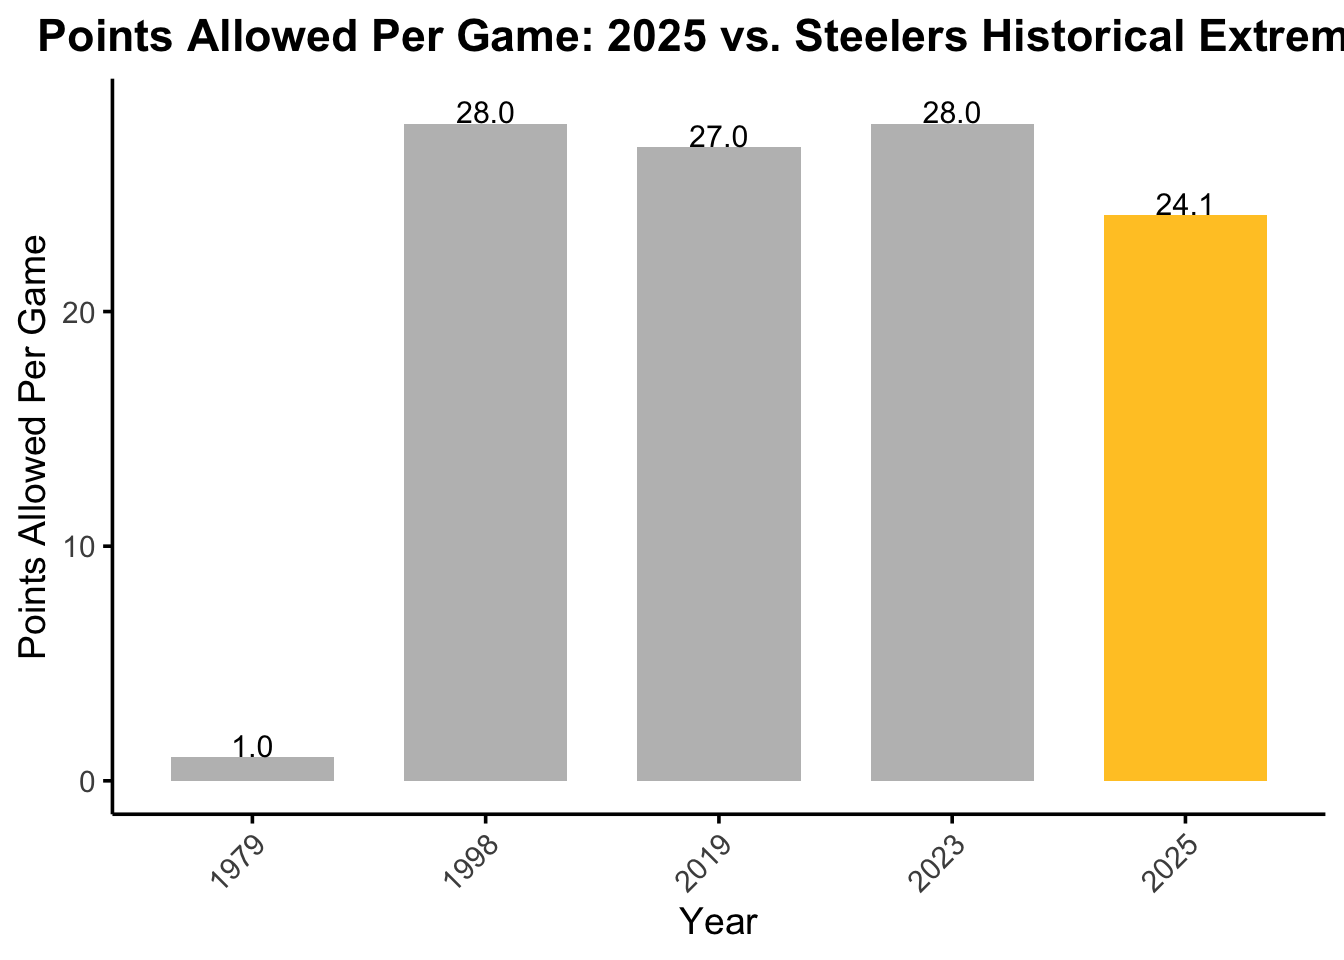
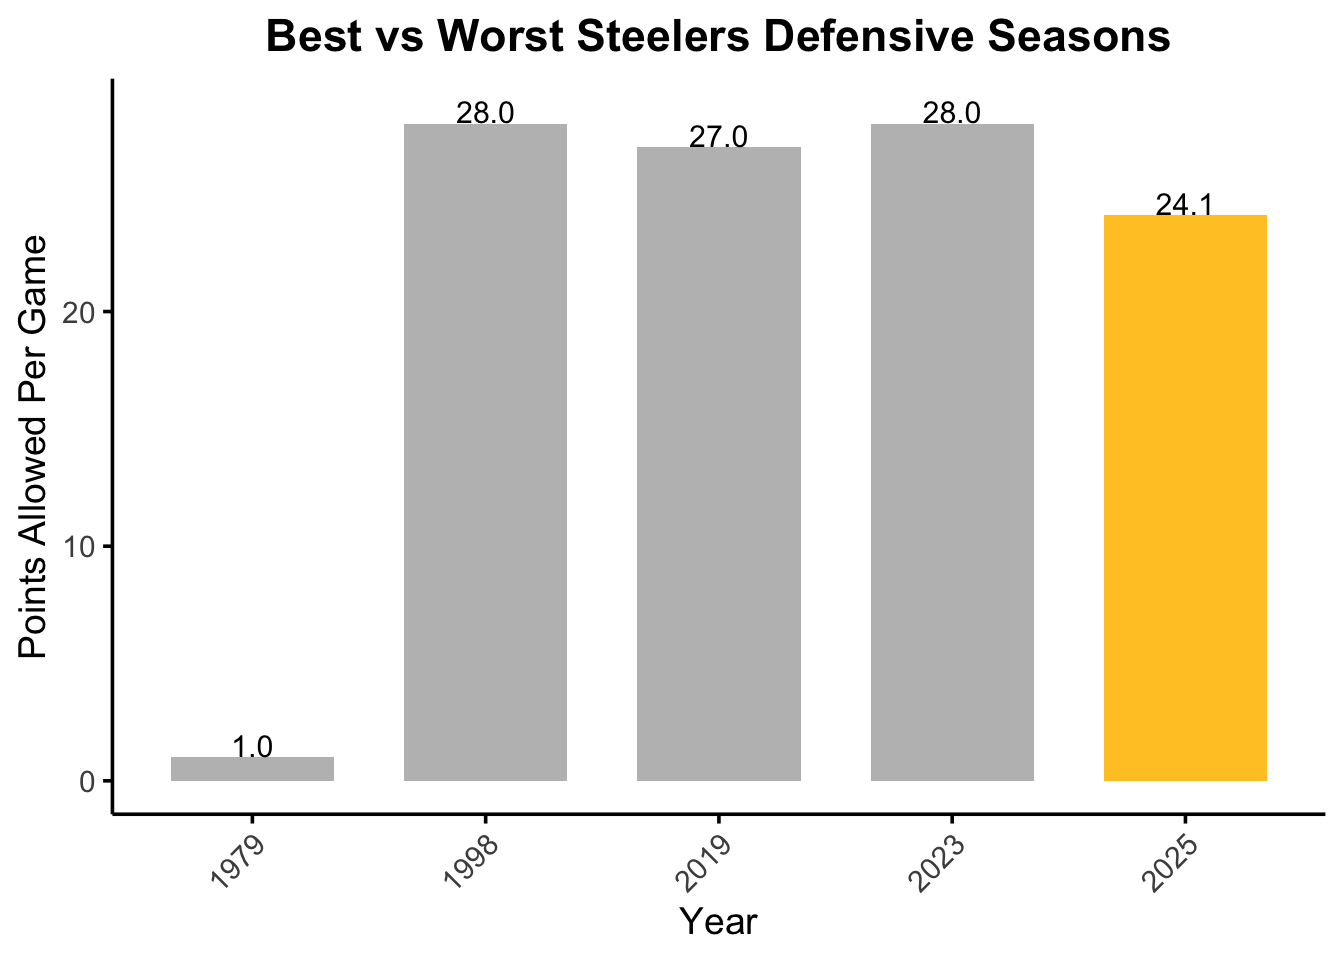
final fixes

Changed region(s): [[0.0312, 0.0, 1.0, 0.0625]]

diff --git a/posts/Steelers-defense/index.html b/posts/Steelers-defense/index.html
@@ -195,7 +195,14 @@ pre > code.sourceCode > span > a:first-child::before { text-decoration: underlin
 
 
 
-<p>This is a story about how the 2025 Steelers are having an all-time</p>
+<p>Steelers Defense at an All-Time Low? A Deep Dive Through Five Decades of History</p>
+<p>For generations, the Pittsburgh Steelers embodied one unmistakable identity: hard-nosed, suffocating defense. It’s the brand that defined the city, the franchise, and the fan base. For years, you didn’t need a superstar quarterback or a flashy offense. If you wore black and gold, you won games by hitting harder, tackling smarter, and outworking everyone on the field.</p>
+<p>But today, something feels different.</p>
+<p>Something feels broken.</p>
+<p>When you look at the numbers, study the trends, and compare 2025 to the Steelers’ long defensive lineage, the story becomes clearer — and more alarming. This year’s defense isn’t just struggling. It’s drifting into territory Pittsburgh hasn’t seen in decades.</p>
+<p>And the visuals from the charts the bar graph, line chart, and scatter plot don’t just confirm that.</p>
+<p>They magnify it.</p>
+<p>Here’s the bar chart to express that.</p>
 <div class="cell">
 <details class="code-fold">
 <summary>Code</summary>
@@ -240,7 +247,6 @@ pre > code.sourceCode > span > a:first-child::before { text-decoration: underlin
 <span id="cb1-39"><a href="#cb1-39" aria-hidden="true" tabindex="-1"></a>  <span class="fu">mutate</span>(<span class="at">Type =</span> <span class="st">"2025"</span>, <span class="at">Label =</span> <span class="st">"2025"</span>)</span></code></pre></div><button title="Copy to Clipboard" class="code-copy-button"><i class="bi"></i></button></div>
 </details>
 </div>
-<p>Bar Chart</p>
 <div class="cell">
 <details class="code-fold">
 <summary>Code</summary>
@@ -277,21 +283,22 @@ pre > code.sourceCode > span > a:first-child::before { text-decoration: underlin
 <span id="cb2-31"><a href="#cb2-31" aria-hidden="true" tabindex="-1"></a>  )) <span class="sc">+</span></span>
 <span id="cb2-32"><a href="#cb2-32" aria-hidden="true" tabindex="-1"></a>  </span>
 <span id="cb2-33"><a href="#cb2-33" aria-hidden="true" tabindex="-1"></a>  <span class="fu">labs</span>(</span>
-<span id="cb2-34"><a href="#cb2-34" aria-hidden="true" tabindex="-1"></a>    <span class="at">title =</span> <span class="st">"Points Allowed Per Game: 2025 vs. Steelers Historical Extremes"</span>,</span>
-<span id="cb2-35"><a href="#cb2-35" aria-hidden="true" tabindex="-1"></a>    <span class="at">x =</span> <span class="st">"Year"</span>,</span>
-<span id="cb2-36"><a href="#cb2-36" aria-hidden="true" tabindex="-1"></a>    <span class="at">y =</span> <span class="st">"Points Allowed Per Game"</span></span>
-<span id="cb2-37"><a href="#cb2-37" aria-hidden="true" tabindex="-1"></a>  ) <span class="sc">+</span></span>
-<span id="cb2-38"><a href="#cb2-38" aria-hidden="true" tabindex="-1"></a>  </span>
-<span id="cb2-39"><a href="#cb2-39" aria-hidden="true" tabindex="-1"></a>  <span class="fu">theme_classic</span>(<span class="at">base_size =</span> <span class="dv">14</span>) <span class="sc">+</span></span>
-<span id="cb2-40"><a href="#cb2-40" aria-hidden="true" tabindex="-1"></a>  <span class="fu">theme</span>(</span>
-<span id="cb2-41"><a href="#cb2-41" aria-hidden="true" tabindex="-1"></a>    <span class="at">plot.title =</span> <span class="fu">element_text</span>(<span class="at">face =</span> <span class="st">"bold"</span>, <span class="at">hjust =</span> <span class="fl">0.5</span>),</span>
-<span id="cb2-42"><a href="#cb2-42" aria-hidden="true" tabindex="-1"></a>    <span class="at">axis.text.x =</span> <span class="fu">element_text</span>(<span class="at">angle =</span> <span class="dv">45</span>, <span class="at">hjust =</span> <span class="dv">1</span>),</span>
-<span id="cb2-43"><a href="#cb2-43" aria-hidden="true" tabindex="-1"></a>    <span class="at">legend.position =</span> <span class="st">"none"</span>,</span>
-<span id="cb2-44"><a href="#cb2-44" aria-hidden="true" tabindex="-1"></a>    <span class="at">axis.line =</span> <span class="fu">element_line</span>(<span class="at">color =</span> <span class="st">"black"</span>),</span>
-<span id="cb2-45"><a href="#cb2-45" aria-hidden="true" tabindex="-1"></a>    <span class="at">axis.ticks =</span> <span class="fu">element_line</span>(<span class="at">color =</span> <span class="st">"black"</span>)</span>
-<span id="cb2-46"><a href="#cb2-46" aria-hidden="true" tabindex="-1"></a>  )</span>
-<span id="cb2-47"><a href="#cb2-47" aria-hidden="true" tabindex="-1"></a></span>
-<span id="cb2-48"><a href="#cb2-48" aria-hidden="true" tabindex="-1"></a><span class="fu">print</span>(plot_bar)</span></code></pre></div><button title="Copy to Clipboard" class="code-copy-button"><i class="bi"></i></button></div>
+<span id="cb2-34"><a href="#cb2-34" aria-hidden="true" tabindex="-1"></a>    <span class="at">title =</span> <span class="st">"Best vs Worst Steelers Defensive Seasons"</span>,</span>
+<span id="cb2-35"><a href="#cb2-35" aria-hidden="true" tabindex="-1"></a>    <span class="at">subtitlte =</span> <span class="st">"Comparing historic dominance with modern struggles."</span>,</span>
+<span id="cb2-36"><a href="#cb2-36" aria-hidden="true" tabindex="-1"></a>    <span class="at">x =</span> <span class="st">"Year"</span>,</span>
+<span id="cb2-37"><a href="#cb2-37" aria-hidden="true" tabindex="-1"></a>    <span class="at">y =</span> <span class="st">"Points Allowed Per Game"</span></span>
+<span id="cb2-38"><a href="#cb2-38" aria-hidden="true" tabindex="-1"></a>  ) <span class="sc">+</span></span>
+<span id="cb2-39"><a href="#cb2-39" aria-hidden="true" tabindex="-1"></a>  </span>
+<span id="cb2-40"><a href="#cb2-40" aria-hidden="true" tabindex="-1"></a>  <span class="fu">theme_classic</span>(<span class="at">base_size =</span> <span class="dv">14</span>) <span class="sc">+</span></span>
+<span id="cb2-41"><a href="#cb2-41" aria-hidden="true" tabindex="-1"></a>  <span class="fu">theme</span>(</span>
+<span id="cb2-42"><a href="#cb2-42" aria-hidden="true" tabindex="-1"></a>    <span class="at">plot.title =</span> <span class="fu">element_text</span>(<span class="at">face =</span> <span class="st">"bold"</span>, <span class="at">hjust =</span> <span class="fl">0.5</span>),</span>
+<span id="cb2-43"><a href="#cb2-43" aria-hidden="true" tabindex="-1"></a>    <span class="at">axis.text.x =</span> <span class="fu">element_text</span>(<span class="at">angle =</span> <span class="dv">45</span>, <span class="at">hjust =</span> <span class="dv">1</span>),</span>
+<span id="cb2-44"><a href="#cb2-44" aria-hidden="true" tabindex="-1"></a>    <span class="at">legend.position =</span> <span class="st">"none"</span>,</span>
+<span id="cb2-45"><a href="#cb2-45" aria-hidden="true" tabindex="-1"></a>    <span class="at">axis.line =</span> <span class="fu">element_line</span>(<span class="at">color =</span> <span class="st">"black"</span>),</span>
+<span id="cb2-46"><a href="#cb2-46" aria-hidden="true" tabindex="-1"></a>    <span class="at">axis.ticks =</span> <span class="fu">element_line</span>(<span class="at">color =</span> <span class="st">"black"</span>)</span>
+<span id="cb2-47"><a href="#cb2-47" aria-hidden="true" tabindex="-1"></a>  )</span>
+<span id="cb2-48"><a href="#cb2-48" aria-hidden="true" tabindex="-1"></a></span>
+<span id="cb2-49"><a href="#cb2-49" aria-hidden="true" tabindex="-1"></a><span class="fu">print</span>(plot_bar)</span></code></pre></div><button title="Copy to Clipboard" class="code-copy-button"><i class="bi"></i></button></div>
 </details>
 <div class="cell-output-display">
 <div>
@@ -301,7 +308,11 @@ pre > code.sourceCode > span > a:first-child::before { text-decoration: underlin
 </div>
 </div>
 </div>
-<p>Line Chart</p>
+<p>Years where the defense wasn’t just good… it was the reason the Steelers won games.</p>
+<p>Those teams held opponents in check, posted elite DSRS ratings, and dominated at every level. They set the tone for what we expect a “real Steelers defense” to look like.</p>
+<p>But when you lay those great defenses next to 2025, the contrast is hard to miss. The points allowed are higher. The DSRS rating is lower. And the gap between the Steelers and the top defenses in franchise history feels wider than ever.</p>
+<p>Another way to see the Steelers’ struggles is using DSRS in a line chart.</p>
+<p>DSRS, or Defensive Simple Rating System, is a metric that estimates how strong a defense is compared to league average by accounting for both opponent quality and in-game performance. A positive DSRS means the defense performed better than what an average NFL defense would against the same schedule, while a negative score reflects below-average play. In the chart, each season’s DSRS value is plotted to show how Pittsburgh’s defense rose or fell relative to that standard. Higher points on the line represent years where the defense controlled games, limited scoring, and outperformed expectations. Lower points — especially the sharp drop in 2025 — highlight seasons where the unit struggled, gave up more points than it should have, and fell short of the franchise’s historical identity. The visual makes it easy to see the contrast: decades of mostly stable, above-average defenses interrupted by one season that sharply breaks the pattern.</p>
 <div class="cell">
 <details class="code-fold">
 <summary>Code</summary>
@@ -329,10 +340,10 @@ pre > code.sourceCode > span > a:first-child::before { text-decoration: underlin
 <span id="cb3-22"><a href="#cb3-22" aria-hidden="true" tabindex="-1"></a>  <span class="fu">scale_y_continuous</span>(<span class="at">expand =</span> <span class="fu">expansion</span>(<span class="at">mult =</span> <span class="fu">c</span>(<span class="dv">0</span>, <span class="fl">0.1</span>))) <span class="sc">+</span></span>
 <span id="cb3-23"><a href="#cb3-23" aria-hidden="true" tabindex="-1"></a>  </span>
 <span id="cb3-24"><a href="#cb3-24" aria-hidden="true" tabindex="-1"></a>  <span class="fu">labs</span>(</span>
-<span id="cb3-25"><a href="#cb3-25" aria-hidden="true" tabindex="-1"></a>    <span class="at">title =</span> <span class="st">"Defensive Simple Rating System (DSRS) Comparison"</span>,</span>
-<span id="cb3-26"><a href="#cb3-26" aria-hidden="true" tabindex="-1"></a>    <span class="at">subtitle =</span> <span class="st">"Highlighted Steelers Teams"</span>,</span>
+<span id="cb3-25"><a href="#cb3-25" aria-hidden="true" tabindex="-1"></a>    <span class="at">title =</span> <span class="st">"Breaking Down the 2025 Steelers’ DSRS Performance"</span>,</span>
+<span id="cb3-26"><a href="#cb3-26" aria-hidden="true" tabindex="-1"></a>    <span class="at">subtitle =</span> <span class="st">"A detailed look at the Pittsburgh's Defensive Simple Rating System"</span>,</span>
 <span id="cb3-27"><a href="#cb3-27" aria-hidden="true" tabindex="-1"></a>    <span class="at">x =</span> <span class="st">"Year"</span>,</span>
-<span id="cb3-28"><a href="#cb3-28" aria-hidden="true" tabindex="-1"></a>    <span class="at">y =</span> <span class="st">"Defensive SRS Score"</span>,</span>
+<span id="cb3-28"><a href="#cb3-28" aria-hidden="true" tabindex="-1"></a>    <span class="at">y =</span> <span class="st">"Defensive Simple Rating System Score"</span>,</span>
 <span id="cb3-29"><a href="#cb3-29" aria-hidden="true" tabindex="-1"></a>    <span class="at">color =</span> <span class="st">"Team"</span></span>
 <span id="cb3-30"><a href="#cb3-30" aria-hidden="true" tabindex="-1"></a>  ) <span class="sc">+</span></span>
 <span id="cb3-31"><a href="#cb3-31" aria-hidden="true" tabindex="-1"></a>  </span>
@@ -353,11 +364,14 @@ pre > code.sourceCode > span > a:first-child::before { text-decoration: underlin
 </div>
 </div>
 </div>
-<p>Scatter Chart</p>
+<p>When you look at the line graph charting DSRS across the highlighted seasons, the story becomes even clearer. The graph doesn’t just show numbers rising and falling — it shows the emotional heartbeat of Pittsburgh’s defensive history. Each peak represents a year where the Steelers found their rhythm, trusted their scheme, and imposed their will on opponents. And each dip reflects the growing pains, the injuries, or the internal cracks that slowly shifted the team’s identity. What makes the 2025 point so striking is how far it sits beneath the established rhythm of past seasons. It isn’t just a slump; it’s a free-fall.</p>
+<p>The upward spikes in seasons like 1979, 2018, and 2019 illustrate what a healthy Steelers defense looks like. Those years jumped off the chart because the team played fast, physical, and connected. You see those values in the line: sharp peaks that say “this team dictated the game.” Even 2023, which wasn’t historically elite, still sits in a respectable position — high enough to reflect stability and production. These years form a consistent pattern of respectable defensive performance, the kind fans have grown to expect.</p>
+<p>Then there’s 2025, cutting sharply downward like the edge of a cliff. The drop in DSRS isn’t subtle. It reflects a defense that struggled at every level — communication issues, blown coverages, inconsistent pressure, and an inability to force opponents into mistakes. The line graph makes these struggles impossible to ignore: while other seasons hover around steady, positive values, 2025 breaks the pattern and dips into negative territory. It visually isolates itself from the rest of Pittsburgh’s history.</p>
+<p>What makes this visual especially powerful is the contrast. The highs and lows of past seasons rise and fall, but the overall trend still reflects decades of quality defense. Then 2025 comes along, and the line doesn’t bend — it collapses. When fans see the graph, they’re not just looking at a number. They’re seeing a moment where the franchise’s defensive standard wasn’t met. A moment that forces the question: How did Pittsburgh’s greatest strength become its weakness in a single season?</p>
 <div class="cell">
 <details class="code-fold">
 <summary>Code</summary>
-<div class="code-copy-outer-scaffold"><div class="sourceCode cell-code" id="cb4"><pre class="sourceCode r code-with-copy"><code class="sourceCode r"><span id="cb4-1"><a href="#cb4-1" aria-hidden="true" tabindex="-1"></a>label_years <span class="ot">&lt;-</span> <span class="fu">c</span>(<span class="dv">1979</span>, <span class="dv">2019</span>, <span class="dv">2023</span>, <span class="dv">2025</span>)</span>
+<div class="code-copy-outer-scaffold"><div class="sourceCode cell-code" id="cb4"><pre class="sourceCode r code-with-copy"><code class="sourceCode r"><span id="cb4-1"><a href="#cb4-1" aria-hidden="true" tabindex="-1"></a>label_years <span class="ot">&lt;-</span> <span class="fu">c</span>(<span class="dv">1979</span>, <span class="dv">2018</span>, <span class="dv">2019</span>, <span class="dv">2023</span>, <span class="dv">2025</span>)</span>
 <span id="cb4-2"><a href="#cb4-2" aria-hidden="true" tabindex="-1"></a></span>
 <span id="cb4-3"><a href="#cb4-3" aria-hidden="true" tabindex="-1"></a>avg_pts <span class="ot">&lt;-</span> <span class="fu">mean</span>(df_steelers<span class="sc">$</span>Pts, <span class="at">na.rm =</span> <span class="cn">TRUE</span>)</span>
 <span id="cb4-4"><a href="#cb4-4" aria-hidden="true" tabindex="-1"></a>avg_dsrs <span class="ot">&lt;-</span> <span class="fu">mean</span>(df_steelers<span class="sc">$</span>DSRS, <span class="at">na.rm =</span> <span class="cn">TRUE</span>)</span>
@@ -390,8 +404,8 @@ pre > code.sourceCode > span > a:first-child::before { text-decoration: underlin
 <span id="cb4-31"><a href="#cb4-31" aria-hidden="true" tabindex="-1"></a>  </span>
 <span id="cb4-32"><a href="#cb4-32" aria-hidden="true" tabindex="-1"></a>  <span class="fu">scale_size_identity</span>() <span class="sc">+</span> </span>
 <span id="cb4-33"><a href="#cb4-33" aria-hidden="true" tabindex="-1"></a>  <span class="fu">labs</span>(</span>
-<span id="cb4-34"><a href="#cb4-34" aria-hidden="true" tabindex="-1"></a>    <span class="at">title =</span> <span class="st">"Steelers Defensive Performance Through History"</span>,</span>
-<span id="cb4-35"><a href="#cb4-35" aria-hidden="true" tabindex="-1"></a>    <span class="at">subtitle =</span> <span class="st">"DSRS vs Points Allowed"</span>,</span>
+<span id="cb4-34"><a href="#cb4-34" aria-hidden="true" tabindex="-1"></a>    <span class="at">title =</span> <span class="st">"Steelers Defense in Focus"</span>,</span>
+<span id="cb4-35"><a href="#cb4-35" aria-hidden="true" tabindex="-1"></a>    <span class="at">subtitle =</span> <span class="st">"A clear look at how every Steelers defense stacks up against 2025."</span>,</span>
 <span id="cb4-36"><a href="#cb4-36" aria-hidden="true" tabindex="-1"></a>    <span class="at">x =</span> <span class="st">"Points Allowed Per Game"</span>,</span>
 <span id="cb4-37"><a href="#cb4-37" aria-hidden="true" tabindex="-1"></a>    <span class="at">y =</span> <span class="st">"Defensive SRS"</span>,</span>
 <span id="cb4-38"><a href="#cb4-38" aria-hidden="true" tabindex="-1"></a>    <span class="at">color =</span> <span class="st">"Legend"</span></span>
@@ -412,6 +426,8 @@ pre > code.sourceCode > span > a:first-child::before { text-decoration: underlin
 </div>
 </div>
 </div>
+<p>The scatterplot comparing DSRS to Points Allowed paints one of the clearest pictures of Pittsburgh’s defensive identity — and where the 2025 team diverges from it. Most seasons cluster in the upper-left region of the graph, where strong DSRS ratings pair with low points allowed, reflecting the classic Steelers formula for winning football. The highlighted years like 1979, 2018, 2019, and even 2023 all fall within this historical sweet spot. Then there’s 2025, isolated in the bottom-right corner, where poor defensive ratings collide with elevated scoring allowed. Its position on the chart visually separates it from five decades of Steelers standards, showing not just a statistical outlier but a fundamental break in performance. No matter how you interpret the data; efficiency, dominance, or consistency, the scatter plot makes one thing undeniable: 2025 stands alone for all the wrong reasons.</p>
+<p>In the end, the numbers, charts, and historical comparisons all point toward the same conclusion. The 2025 Steelers defense isn’t simply underperforming — it’s charting new territory in the franchise’s defensive decline. But while the data makes this season difficult to ignore, it also sets the stage for a potential reset. Pittsburgh has rebounded from low points before, rebuilding elite defenses through smart draft picks, bold scheme changes, and a commitment to physical, disciplined football. If history is any guide, this down year may become the spark that reignites the defensive identity Steelers fans have relied on for generations.</p>
 
 
 

diff --git a/index.html b/index.html
@@ -243,7 +243,7 @@ Quinston Larsen
 </a>
 </div>
 </div>
-<div class="quarto-post image-right" data-index="1" data-categories="Zm9vdGJhbGwlMkNOZWJyYXNrYSUyQ3J1bm5pbmclMjBiYWNr" data-listing-date-sort="1762236000000" data-listing-file-modified-sort="1764882857928" data-listing-date-modified-sort="NaN" data-listing-reading-time-sort="5" data-listing-word-count-sort="980">
+<div class="quarto-post image-right" data-index="1" data-categories="Zm9vdGJhbGwlMkNOZWJyYXNrYSUyQ3J1bm5pbmclMjBiYWNr" data-listing-date-sort="1762236000000" data-listing-file-modified-sort="1765223854692" data-listing-date-modified-sort="NaN" data-listing-reading-time-sort="10" data-listing-word-count-sort="1960">
 <div class="thumbnail"><a href="./posts/Steelers-defense/index.html" class="no-external">
 
 <img loading="lazy" src="./posts/Steelers-defense/image.png" class="thumbnail-image">
@@ -263,7 +263,7 @@ Quinston Larsen
 
 </div>
 <div class="delink listing-description"><a href="./posts/Steelers-defense/index.html" class="no-external">
-This is a story about how the 2025 Steelers are having an all-time
+Steelers Defense at an All-Time Low? A Deep Dive Through Five Decades of History
 </a></div>
 </div>
 <div class="metadata">
